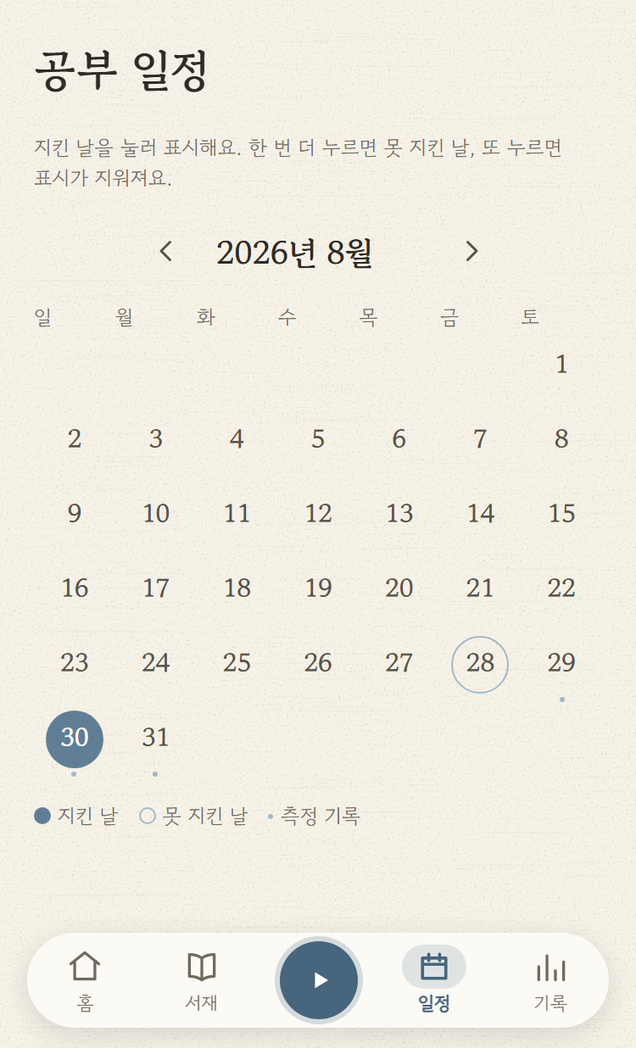
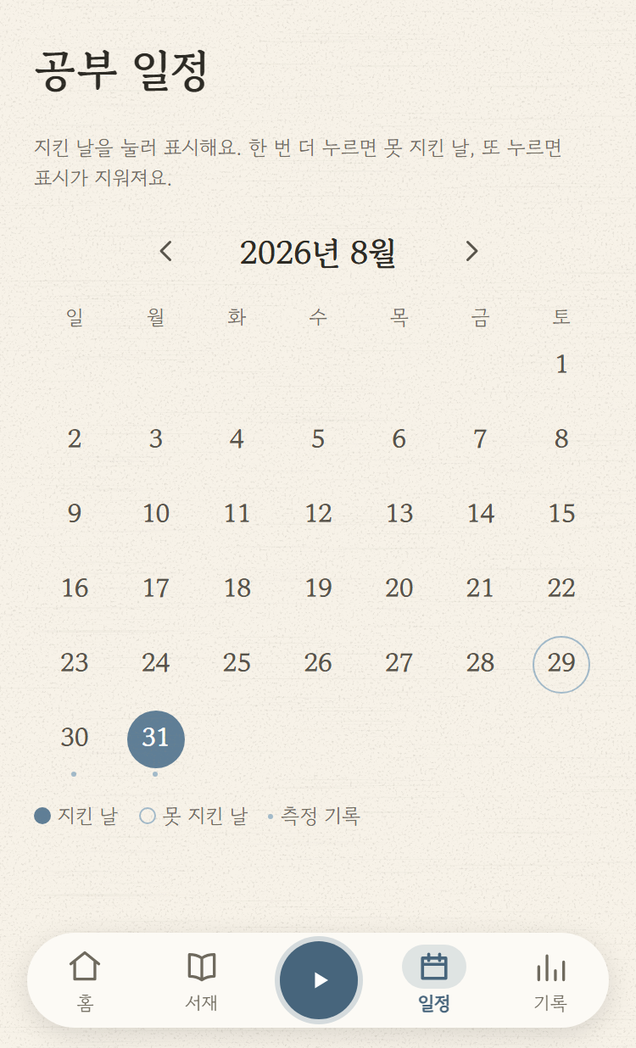
chore(미니앱): 스토어 컷 08 「공부 일정」 재촬영 — 요일 머리글 정렬 반영 + 촬영기 달 선택 기준을 표식 3개 미만으로 (#1018)
콘솔 스토어 그림 08-study-calendar.png가 요일 머리글이 칸 왼쪽에 붙은 옛 그림이라(#1017이 고친
바로 그 결함) 검수 제출 전 재촬영했다. shoot.mjs의 「표식 0개면 지난달」 기준으로는 09-02에
9월(점 하나)을 찍어 원·테두리·점을 못 보여 줘 3개 미만으로 올렸다. 04·10은 오늘 기준 이동
diff뿐이라 되돌렸다(바뀐 화면이 아니다).

Session-Model: claude-fable-5-1

diff --git a/claude-docs/changelog.md b/claude-docs/changelog.md
@@ -866,3 +866,4 @@
 | 2026-09-02 | **feat(미니앱): 공부 목표 화면에 「목표 없이 지내기」 — 정한 목표를 0으로 되돌리는 길** — 서버는 공부 목표 0을 「목표 없음」으로 **이미 받는데**(`User.updateStudyDailyGoal`은 음수만 거부, javadoc·`StudyGoalRequest` 주석 모두 그렇게 적혀 있다) UI에 그리로 가는 문이 없었다 — 독서·공부가 공유하는 `Goal.tsx`의 휠 0 가드(`disabled={selected === 0}`)가 **variant를 안 봐** 공부까지 막았다(그 가드는 독서 기준으로는 옳다: 휠을 끝까지 내린 실수일 확률이 높다). **가드는 그대로 두고 해제만 별도 문으로** 냈다(설계 추천 B) — 공부이고 `current > 0`일 때만 서는 **약한 버튼 「목표 없이 지내기」**. 노출 조건은 순수 함수 `showClearGoal(variant, current)`로 화면 밖에 꺼냈다(정적 렌더 하니스라 클로저 안에 두면 계측기가 소스 grep밖에 안 남는다, T-149). **`selected`가 아니라 `current`를 보는 것이 핵심**이다 — `selected`면 휠을 돌리는 동안 버튼이 나타났다 사라진다. **독서엔 안 선다**: 독서의 0은 「목표 없음」이 아니라 이월·부채 원장이 깨지는 값이다. 저장은 기존 `saveGoal(variant, 0)`을 그대로 타고, `onSaved → load('main')`이 대시보드를 재조회하므로 홈이 「목표 정하기」로 돌아가는 데 **배선 추가가 0**이다. ⚠ **`App.tsx`·`Home.tsx`·`api.ts`·`dev-mock.ts`·서버 프로덕션 코드 전부 무변경** — `Goal.tsx` diff는 hunk 3개(함수 선언 · `save`가 값을 받도록 시그니처 변경 · 게이트 안의 버튼)뿐이고 **독서 렌더는 바이트 불변**이다. 사용자 확정 2건: 해제 전 **확인 단계 없음**(약한 버튼 + 명시적 라벨이면 충분, 코드 0줄) · 문구는 **「목표 없이 지내기」**(「지우기」는 기록이 지워지는 것으로 오독된다 — 지워지는 건 목표값뿐). 📍 **RED를 먼저 확인**했다 — 신규 절이 **5 failed**(`showClearGoal` 부재 2 · 해제 버튼 미렌더 1 · 소스 배선 2) → 최소 구현 → GREEN. 검증(보고 시점 재측정): 미니앱 **1382건 green**(31파일, 신규 +10), `tsc --noEmit` 클린, 서버 `StudyApiControllerTest` **55건 green**(신규 +1). ⚠ 서버 계약 테스트(0 저장 → 200 + 대시보드 `study.goalSeconds` 0)만은 **RED 없이 GREEN**이다 — 프로덕션이 이미 맞아서이고, 주석에만 있던 계약을 **고정**하려는 것이 목적이다(누가 방어적으로 `> 0` 검증을 문 앞에 얹으면 이 화면이 조용히 죽는데 프론트 테스트로는 서버 회귀를 못 잡는다). **돌연변이 4종 전부 사살**(주입·되돌림을 매번 grep 건수로 단언 — 「주입 안 됨 = 초록」 함정 회피): `current`→`selected` 오배선 → **소스 배선 단언만** 사망(초기 `selected = current`라 렌더 테스트는 원리상 못 잡는다 — T-218이 겨눈 바로 그 사각) / 해제 버튼을 `save(selected)`로 묶어 죽은 문 만들기 → 배선 단언 사망 / `> 0`→`>= 0` → 경계 1건 + 「목표 0이면 문이 없다」 렌더 1건 사망 / variant 분기 제거 → 독서 3건 사망(그중 하나가 **독서 버튼 건수 2 고정** 단언 — 존재가 아니라 건수로 잰다, T-218). 목 모드 실측(390×844, `localStorage.clear()` 후 첫 진입): 목표 30분 → 홈 「남은 시간 30:00 · 하루 목표 30:00 · 변경 ›」 → 목표 화면 버튼 **[저장(채움) · 목표 없이 지내기(약함) · 돌아가기]** 3개(약한 버튼은 배경 `rgba(0,0,0,0)`으로 「돌아가기」와 같은 무게, y=572/642/712로 스크롤 없이 다 보인다) → 탭 → **홈이 「목표 정하기」로 복귀**(「남은 시간」·「변경」 0) → 재진입하면 버튼이 **없다**(current 0) / **독서 목표 화면엔 없다**(버튼 2개 그대로). **T-183 덮개 0 실측**: `position:fixed && z-index>=99`가 공부 목표 화면 **0개**, 독서 목표 화면 **0개**(같은 수 — 새 층 0. 버튼은 화면 안 요소다). ⚠ 이 세션의 목 모드 스크린샷은 **못 남겼다** — 내부 브라우저 패널의 캡처가 타일 합성으로 깨져(CDP 함정) 판정은 전부 `javascript_tool` 수치로 했다. 새 애니메이션 0, 이모지 0, `typography.test.tsx` 채움 버튼 목록 무변경(약한 버튼은 `FILLED` 패턴에 안 걸린다). 배포 마커 후보 `--expect "목표 없이 지내기"`(소스에 따옴표째 실리는 리터럴 — T-153 판별 통과). |
 | 2026-09-02 | **fix(미니앱): 공부 기록의 잔디·범례·막대를 공부 테마 파랑으로 — 잔디 팔레트를 토큰 경유로** — 공부 모드에서 「기록」 탭만 **초록(세이지)**으로 남아 있었다. 원인은 색의 단일 출처인 `ui.tsx`의 `LEVEL_COLORS`가 **hex 리터럴**이라 `body.study-mode`의 토큰 스왑이 원리상 닿지 않았던 것 — 화면·데이터는 이미 갈렸는데 색만 독서 것이었다. 처방은 팔레트를 `var(--grass0..4, <옛 리터럴>)` 경유로 바꾸고 낮 기본값 5개(`html:root`)와 공부 덮개 4개(`body.study-mode`)를 css에 두는 **토큰 스왑**이다(`--accentPill`·`--heroCardBg`와 같은 수법). 파랑 값은 **새로 만들지 않았다** — 이미 승인된 `--adaptiveBlue200/400/600/800`(#AFC4D2·#83A0B4·#536F85·#3A5266)이 세이지 4단과 명도가 같다(HSL 77/62/44/29% ↔ 75/61/42/31%). **0단은 안 덮는다**: 빈 칸은 「기록 없음」의 종이색이라 모드가 갈려도 같다. ⚠ **독서 렌더는 fallback 그대로라 바이트 불변**이고, 소비처(`GrassGrid`·`Legend`·독서/공부 두 화면의 하루 막대)는 상수를 보므로 컴포넌트 파일은 **한 줄도 안 건드렸다**(`History.tsx`·`StudyHistory.tsx`·`App.tsx` diff 0). 📍 **RED를 먼저 확인**했다 — 6건 실패(팔레트 토큰 부재 1 · css 선언 부재 2 · 공부 마크업의 리터럴·건수 3) → 구현 → **1387건 green**(31파일, 신규 +4), `tsc -b` 클린. **계측은 존재가 아니라 건수·전체 인자열로** 잰다(T-218): 하루 막대 3줄·범례 스와치 5개를 각각 개수로 못 박아 한 자리만 고쳐도 통과하는 사각을 닫았다. **돌연변이 2종 사살**: 공부 블록의 `--grass2` 선언만 삭제 → 「공부 블록이 잔디 1~4단을 파랑 사다리로 덮는다」만 사망(fallback 세이지가 그대로 뜨는 경로) / `LEVEL_COLORS[2]`만 리터럴로 되돌림 → 4건 사망(팔레트 1 + 공부 화면 3: 리터럴 부재·막대 건수 3→0·범례 건수 5→4). 독서 불변의 증거는 **`history.test.tsx` 무수정 green**. 스크린샷은 목 모드로 별도 첨부. |
 | 2026-09-02 | **fix(미니앱): 공부 일정 달력의 요일 머리글·월 제목 가운데 정렬 — TDS `Text`의 `style.textAlign`은 DOM에 안 실린다(T-219, 3회차 → 소스 가드 승격)** — 실기기에서 요일 줄이 칸 왼쪽에 붙어 날짜 열과 반 칸 어긋났다(사용자 스크린샷 09-02). 원인은 T-216과 동일 — TDS `Text`가 `style`의 `textAlign`·`display`를 자기 prop 값으로 덮어써 `style={{ textAlign: 'center' }}`가 무성으로 사라진다. **T-216 sweep(08-29) 이틀 뒤 #997이 같은 꼴을 새로 썼다** — 기존 자리 sweep은 새로 쓰는 손을 못 막는다. ① 머리글 7개·월 제목을 `textAlign="center"` **prop**으로(TDS 공개 타입 — 인라인 `text-align`에 실린다) ② **하드픽스**: `text-style-guard.test.ts`가 제품 `.tsx`의 모든 `<Text>` 여는 태그를 훑어 `style` 리터럴의 `textAlign`을 파일·태그째 나열하며 막는다(계측기 양성·음성 대조 3건 + 빈 가드 하한) ③ 달력 테스트에 「머리글을 가장 가까이 감싼 span에 `text-align:center`」 단언. 📍 RED 확인: 머리글 단언이 「`text-align` 없음」으로 실패 · 가드가 `StudyCalendar.tsx` 2곳을 정확히 짚음 → 구현 → GREEN. 검증(보고 시점 재측정): 미니앱 **1393건 green**(32파일, 신규 +6) · `tsc --noEmit` 클린 · 목 모드 실브라우저 실측(390×844@3x, playwright): 수정 전 요일 글자 중심−열 중심 **7열 전부 −19px**(`text-align: start`)·제목 **−14.9px** → 수정 후 **전부 0**(`center`), 9월·1월 동일. 콘솔 에러는 전/후 동일 2건(샌드박스가 막은 Google Fonts CSS + 404 1건 — 이 변경과 무관). ⚠ T-216이 「훅 승격 불가」라 적은 근거(부모 상속)는 판정 대상을 잘못 잡은 것 — 「키가 DOM에 실리는가」는 부모와 무관하게 늘 아니오라 정적 판정이 된다. `display` 키도 같은 함정이나 **96곳/16파일**이 남아 이번 가드엔 넣지 않았다(정리하는 날 `DEAD_KEYS`에 더한다). 배포는 사용자 지시 대기. |
+| 2026-09-02 | **chore(미니앱): 스토어 컷 08 「공부 일정」 재촬영 — #1017 정렬 반영 + 촬영기의 달 선택 기준을 표식 3개 미만으로** — 콘솔 스토어 그림 `08-study-calendar.png`가 요일 머리글이 칸 왼쪽에 붙은 옛 그림이라(#1017이 고친 바로 그 결함) 검수 제출 전 재촬영했다. `shoot.mjs`의 「표식 0개면 지난달」 기준으로는 09-02에 9월(점 하나)을 찍어 원·테두리·점을 못 보여 줘 **3개 미만**으로 올렸다. 04·10은 오늘 기준 이동 diff뿐이라 되돌림. 번들 `01a06122`(20260902-137)와 함께 콘솔 교체·검수 제출. |

diff --git a/miniapp/screenshots/README.md b/miniapp/screenshots/README.md
@@ -35,6 +35,11 @@
 → 06은 목 픽스처의 공부 목표·오늘 시간이 0이라 게이지 대신 `00:00`과 「목표 정하기」로 선다. 이 값을
 채우려면 앱 소스(`dev-mock.ts`)를 고쳐야 해 여기선 그대로 뒀다 — 첫날의 정직한 상태이기도 하다.
 
+**2026-09-02 재촬영 — 08만**: #1017이 요일 머리글·월 제목을 날짜 열 가운데로 맞춰, 머리글이 칸 왼쪽에
+붙은 옛 컷이 낡았다. 촬영기의 「지난달로 물러서기」 기준을 표식 0개에서 **3개 미만**으로 올렸다 — 09-02엔
+9월에 점 하나뿐이라 원·테두리·점 셋을 못 보여 줘 백지와 같은 문제였다. 04·10은 오늘 기준 이동 diff뿐이라
+되돌렸다(바뀐 화면이 아니다).
+
 ## 재촬영 — `shoot.mjs` 한 방
 
 ```
